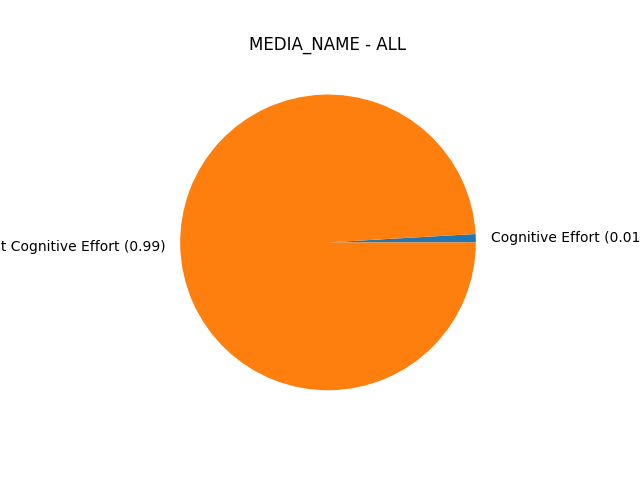
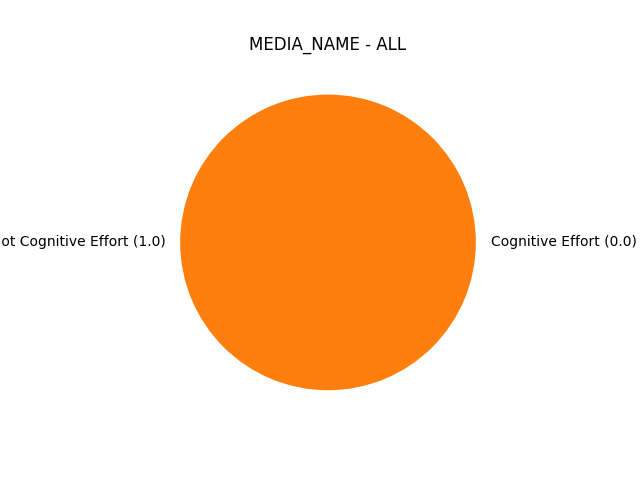
add labelling criteria: times only v1_2 and v_2_2

Changed region(s): [[0.5312, 0.4688, 1.0, 0.5312], [0.0, 0.4688, 0.2812, 0.5312]]

diff --git a/labelling/set_labels.py b/labelling/set_labels.py
@@ -61,6 +61,22 @@ def set_label_times_only_v1_1F(df_complete):
     return labels
 
 
+def set_label_times_only_v1_2F(df_complete):
+
+    labels = []
+
+    for i in df_complete.index:
+        av_d_i_f = labelling.utilities.get_av_d_i_f(df_complete['USER_ID'][i], 3)
+        n1 = df_complete['T_I_J'][i]
+        n2 = df_complete['AVERAGE_T_J'][i] * (1 + av_d_i_f)
+        if n1 > n2:
+            labels.append('1')
+        else:
+            labels.append('0')
+
+    return labels
+
+
 def set_label_times_only_v1_1H(df_complete):
 
     labels = []
@@ -76,6 +92,21 @@ def set_label_times_only_v1_1H(df_complete):
 
     return labels
 
+
+def set_label_times_only_v1_2H(df_complete):
+
+    labels = []
+
+    for i in df_complete.index:
+        av_d_i_h = labelling.utilities.get_av_d_i_h(df_complete['USER_ID'][i], 3)
+        n1 = df_complete['T_I_J'][i]
+        n2 = df_complete['AVERAGE_T_J'][i] * (1 + av_d_i_h)
+        if n1 > n2:
+            labels.append('1')
+        else:
+            labels.append('0')
+
+    return labels
 
 def set_label_times_only_v2(df_complete):
 
@@ -108,6 +139,22 @@ def set_label_times_only_v2_1F(df_complete):
     return labels
 
 
+def set_label_times_only_v2_2F(df_complete):
+
+    labels = []
+
+    for i in df_complete.index:
+        av_d_i_f = labelling.utilities.get_av_d_i_f(df_complete['USER_ID'][i], 3)
+        n1 = df_complete['T_I_J'][i] * (1 - av_d_i_f)
+        n2 = df_complete['AVERAGE_T_J'][i]
+        if n1 > n2:
+            labels.append('1')
+        else:
+            labels.append('0')
+
+    return labels
+
+
 def set_label_times_only_v2_1H(df_complete):
 
     labels = []
@@ -115,6 +162,22 @@ def set_label_times_only_v2_1H(df_complete):
     for i in df_complete.index:
         d_i_h = labelling.utilities.get_d_i_h(df_complete['USER_ID'][i])
         n1 = df_complete['T_I_J'][i] * (1 - d_i_h)
+        n2 = df_complete['AVERAGE_T_J'][i]
+        if n1 > n2:
+            labels.append('1')
+        else:
+            labels.append('0')
+
+    return labels
+
+
+def set_label_times_only_v2_2H(df_complete):
+
+    labels = []
+
+    for i in df_complete.index:
+        av_d_i_h = labelling.utilities.get_av_d_i_h(df_complete['USER_ID'][i], 3)
+        n1 = df_complete['T_I_J'][i] * (1 - av_d_i_h)
         n2 = df_complete['AVERAGE_T_J'][i]
         if n1 > n2:
             labels.append('1')
@@ -139,11 +202,18 @@ def get_df_answers_labelled(df_complete, labelling_type):
         labels = set_label_times_only_v1_1F(df_complete)
     elif labelling_type == 'TIMES_ONLY_V1_1H':
         labels = set_label_times_only_v1_1H(df_complete)
+    elif labelling_type == 'TIMES_ONLY_V1_2F':
+        labels = set_label_times_only_v1_2F(df_complete)
+    elif labelling_type == 'TIMES_ONLY_V1_2H':
+        labels = set_label_times_only_v1_2H(df_complete)
     elif labelling_type == 'TIMES_ONLY_V2_1F':
         labels = set_label_times_only_v2_1F(df_complete)
     elif labelling_type == 'TIMES_ONLY_V2_1H':
         labels = set_label_times_only_v2_1H(df_complete)
-
+    elif labelling_type == 'TIMES_ONLY_V2_2F':
+        labels = set_label_times_only_v2_2F(df_complete)
+    elif labelling_type == 'TIMES_ONLY_V2_2H':
+        labels = set_label_times_only_v2_2H(df_complete)
 
     df_complete_labelled['LABEL'] = labels
 

diff --git a/labelling/utilities.py b/labelling/utilities.py
@@ -47,12 +47,12 @@ def get_n_simplest_questions(n):
 
     df_question_statistics = pd.read_csv('datasets/results/questions_statistics.csv')
 
-    simplest_thr = df_question_statistics['TOTAL'][0] * 0.25
+    simplest_thr = df_question_statistics['TOTAL'][0] * 0.75
 
     for j in range(0, n):
         min_time = min(df_question_statistics['AVERAGE_TIME'])
         for i in df_question_statistics.index:
-            if (df_question_statistics['AVERAGE_TIME'][i] == min_time) and df_question_statistics['WRONG'][i] > simplest_thr:
+            if (df_question_statistics['AVERAGE_TIME'][i] == min_time) and df_question_statistics['RIGHT'][i] > simplest_thr:
                 simplest_questions.append(df_question_statistics['MEDIA_NAME'][i])
                 df_question_statistics = df_question_statistics.drop(i)
 
@@ -65,12 +65,12 @@ def get_n_hardest_questions(n):
 
     df_question_statistics = pd.read_csv('datasets/results/questions_statistics.csv')
 
-    hardest_thr = df_question_statistics['TOTAL'][0] * 0.25
+    hardest_thr = df_question_statistics['TOTAL'][0] * 0.15
 
     for j in range(0, n):
         max_time = max(df_question_statistics['AVERAGE_TIME'])
         for i in df_question_statistics.index:
-            if (df_question_statistics['AVERAGE_TIME'][i] == max_time) and df_question_statistics['RIGHT'][i] > hardest_thr:
+            if (df_question_statistics['AVERAGE_TIME'][i] == max_time) and df_question_statistics['WRONG'][i] > hardest_thr:
                 hardest_questions.append(df_question_statistics['MEDIA_NAME'][i])
                 df_question_statistics = df_question_statistics.drop(i)
 
@@ -102,6 +102,38 @@ def get_d_i_f(user_id):
     d_i_f = (t_i_f - av_t_f) / t_i_f
 
     return d_i_f
+
+
+def get_av_d_i_f(user_id, n):
+
+    simplest_questions = get_n_simplest_questions(n)
+    df_times_for_users= pd.read_csv('datasets/results/times_for_users.csv')
+
+    sum = 0
+
+    for q in simplest_questions:
+        simplest_index = df_times_for_users[df_times_for_users['USER_ID'] == user_id].index[0]
+        sum += df_times_for_users[q][simplest_index]
+
+    av_d_i_f = sum / n
+
+    return av_d_i_f
+
+
+def get_av_d_i_h(user_id, n):
+
+    hardest_questions = get_n_hardest_questions(n)
+    df_times_for_users= pd.read_csv('datasets/results/times_for_users.csv')
+
+    sum = 0
+
+    for q in hardest_questions:
+        hardest_index = df_times_for_users[df_times_for_users['USER_ID'] == user_id].index[0]
+        sum += df_times_for_users[q][hardest_index]
+
+    av_d_i_h = sum / n
+
+    return av_d_i_h
 
 
 def get_t_i_h(user_id):

diff --git a/test_script.py b/test_script.py
@@ -4,14 +4,18 @@ import labelling.utilities
 
 config = toml.load('config.toml')
 
-df_questions_statistics = pd.read_csv('datasets/results/questions_statistics.csv')
+simplest_questions = labelling.utilities.get_n_hardest_questions(3)
+df_times_for_users = pd.read_csv('datasets/results/times_for_users.csv')
 
-av_t_f = labelling.utilities.get_av_t_f()
+print(simplest_questions)
 
+sum = 0
 
-for i in range(1, 46):
-    if i not in config['general']['excluded_users']:
-        user_id = 'USER_' + str(i)
-        t_i_f = labelling.utilities.get_t_i_f(user_id)
-        d_i_f = (t_i_f -av_t_f) / t_i_f
-        print(d_i_f)
+for q in simplest_questions:
+    simplest_index = df_times_for_users[df_times_for_users['USER_ID'] == 'USER_1'].index[0]
+    print(df_times_for_users[q])
+    sum += df_times_for_users[q][simplest_index]
+
+av_d_i_f = sum / 3
+
+print(av_d_i_f)

diff --git a/main_labelling.py b/main_labelling.py
@@ -5,7 +5,7 @@ import pandas as pd
 df_complete = pd.read_csv('datasets/results/answers_complete_all_info.csv')
 
 
-df_labelled = labelling.set_labels.get_df_answers_labelled(df_complete, 'TIMES_ONLY_V2_1H')
+df_labelled = labelling.set_labels.get_df_answers_labelled(df_complete, 'TIMES_ONLY_V2_2F')
 df_label_statistics = labelling.set_labels.get_df_label_statistics(df_labelled, 'MEDIA_NAME')
 
 df_labelled.to_csv('datasets/results/labels/labelled_dataset.csv', index=False)
